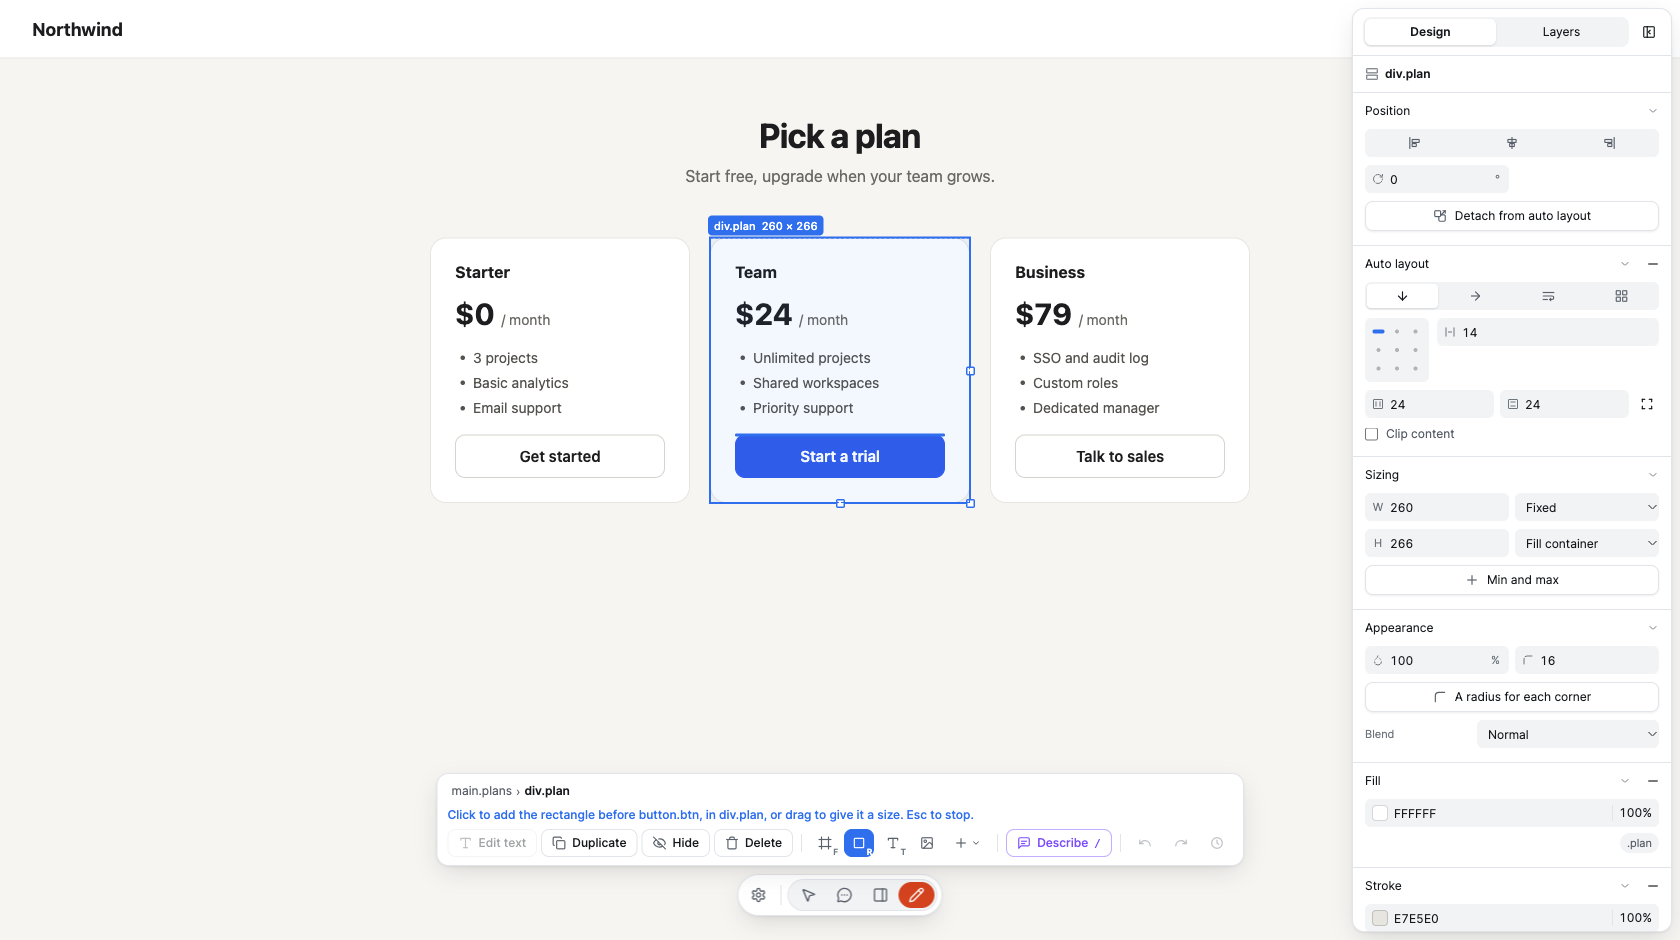
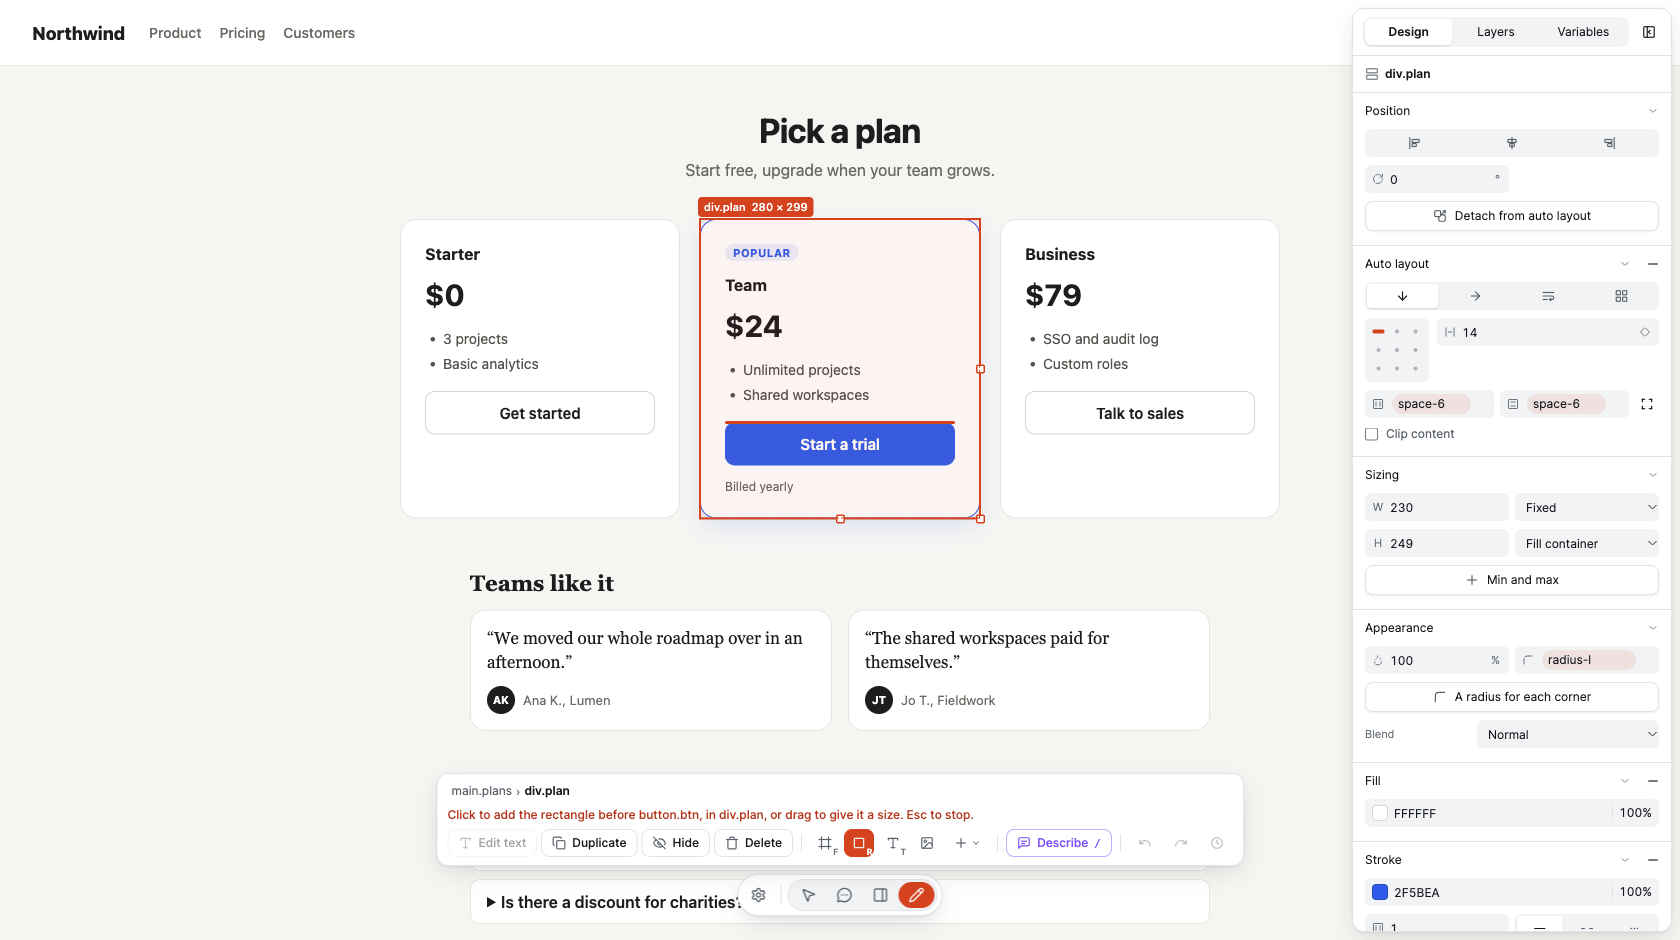
Document Insert and variables in Edit mode

diff --git a/Reference/Known limits.md b/Reference/Known limits.md
@@ -80,8 +80,9 @@ of your own lifts both, at the cost of hosting it.
 ## Edit mode is preview-only and has gaps
 
 Edit mode writes through the plugin's local server, so it exists only in a
-preview and only on HTML published as-is. Gap and padding fields do not offer
-size variables, **Put back** keeps a detached layer's fixed width, the
+preview and only on HTML published as-is. Width and height have no **◇** for
+variables, a text style from Insert can be added but not applied to a layer
+already on the page, **Put back** keeps a detached layer's fixed width, the
 eyedropper needs a Chromium-based browser, and a layer the page's own script
 made cannot be moved or deleted, since it is not in the file.
 → [[Editing a prototype]]
